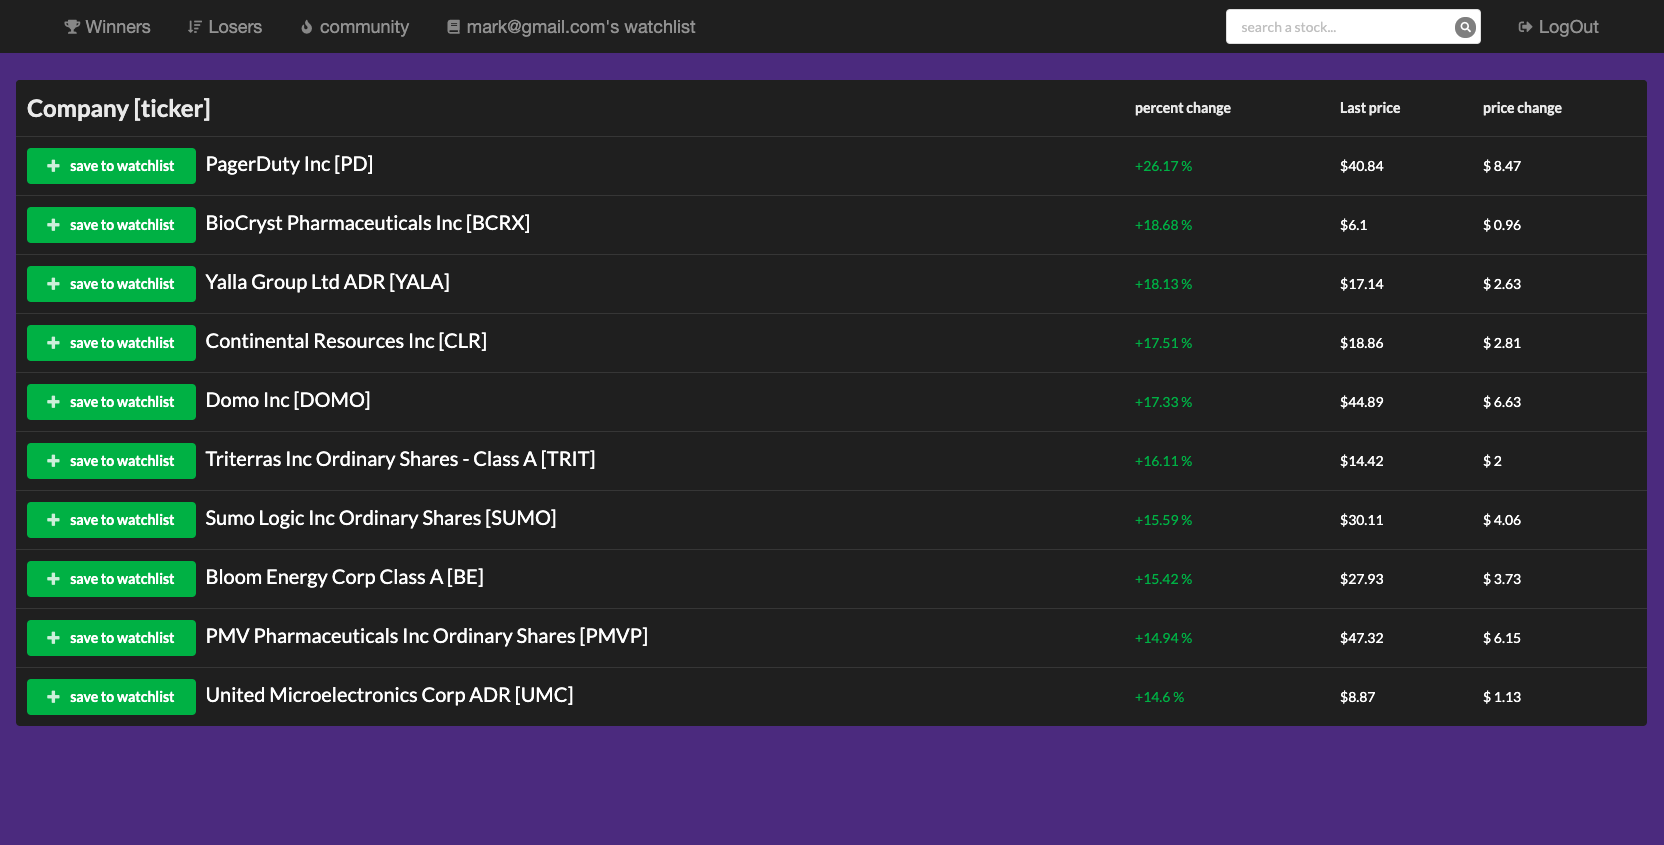
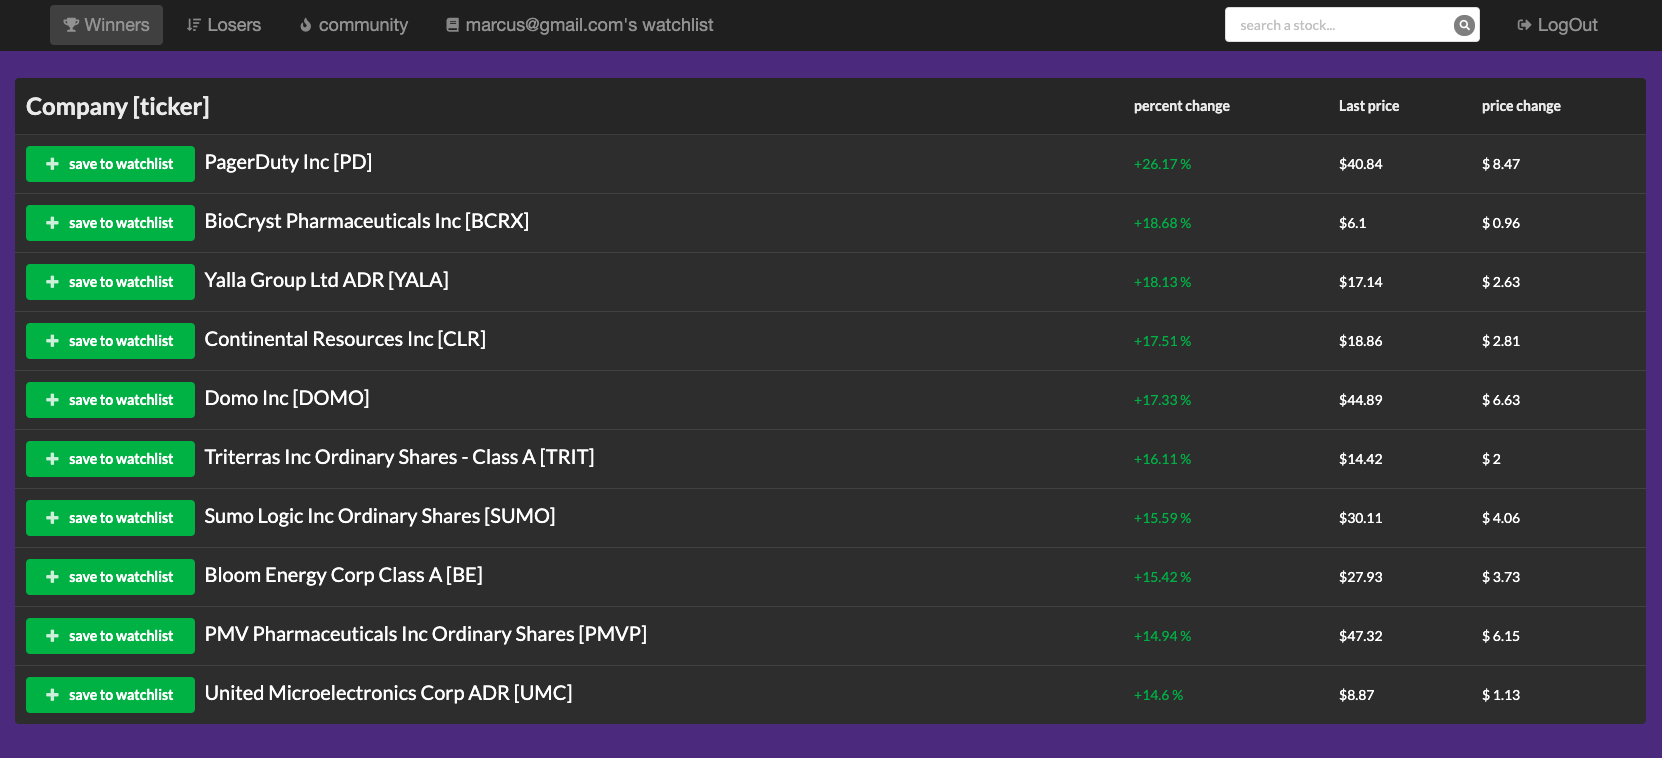
css touches

diff --git a/client/src/containers/apiListWinners/index.js b/client/src/containers/apiListWinners/index.js
@@ -80,16 +80,16 @@ class WinnerListItems extends Component {
 
          </Helmet>
      <div style={{margin:'80px 20px 0px 20px'}}>
-     <Table  inverted widths={4} style={{backgroundColor:'#222222',color:'white'}}    >
+     <Table inverted selectable  widths={4} style={{color:'white'}}    >
  
      <Table.Header>
        <Table.Row>
  
-       <Table.HeaderCell style={{backgroundColor:'#222222',color:'white'}}><h2 >Company [ticker]</h2></Table.HeaderCell>
-       <Table.HeaderCell style={{backgroundColor:'#222222',color:'white'}}>percent change</Table.HeaderCell>
+       <Table.HeaderCell style={{color:'white',backgroundcolor:'#2b2b2b'}}><h2 >Company [ticker]</h2></Table.HeaderCell>
+       <Table.HeaderCell style={{color:'white',backgroundcolor:'#2b2b2b'}}>percent change</Table.HeaderCell>
 
-        <Table.HeaderCell style={{backgroundColor:'#222222',color:'white'}} >Last price</Table.HeaderCell>
-       <Table.HeaderCell  style={{backgroundColor:'#222222',color:'white'}}>price change</Table.HeaderCell>
+        <Table.HeaderCell style={{color:'white',backgroundcolor:'#2b2b2b'}} >Last price</Table.HeaderCell>
+       <Table.HeaderCell  style={{color:'white',backgroundcolor:'#2b2b2b'}}>price change</Table.HeaderCell>
 
  
        </Table.Row>

diff --git a/client/src/containers/LoserListItems/index.js b/client/src/containers/LoserListItems/index.js
@@ -69,16 +69,16 @@ const LoserListItems = props => (
    <div style={{margin:'80px 20px 0px 20px'}}>
 
 
-    <Table inverted style={{backgroundColor:'#222222',color:'white'}}widths={4} >
+    <Table inverted selectable style={{color:'white'}}widths={4} >
     <Table.Header >
        <Table.Row  >
 
-       <Table.HeaderCell style={{backgroundColor:'#222222',color:'white'}} ><h2> Company [ticker]</h2></Table.HeaderCell>
+       <Table.HeaderCell style={{color:'white',backgroundcolor:'#2b2b2b'}} ><h2> Company [ticker]</h2></Table.HeaderCell>
 
-       <Table.HeaderCell style={{backgroundColor:'#222222',color:'white'}} >Last price</Table.HeaderCell>
-       <Table.HeaderCell style={{backgroundColor:'#222222',color:'white'}}>price change</Table.HeaderCell>
+       <Table.HeaderCell style={{color:'white',backgroundcolor:'#2b2b2b'}} >Last price</Table.HeaderCell>
+       <Table.HeaderCell style={{color:'white',backgroundcolor:'#2b2b2b'}}>price change</Table.HeaderCell>
 
-         <Table.HeaderCell style={{backgroundColor:'#222222',color:'white'}}>percent change</Table.HeaderCell>
+         <Table.HeaderCell style={{color:'white',backgroundcolor:'#2b2b2b'}}>percent change</Table.HeaderCell>
 
        </Table.Row>
      </Table.Header>

diff --git a/client/src/containers/Home/index.js b/client/src/containers/Home/index.js
@@ -90,7 +90,7 @@ color='purple'> <Icon name='search'></Icon><span className='buttn2'> Search Stoc
          View the top 10 stock Market daily winners and losers, and lookup any stock.
         </Header>
         <p style={{ fontSize: '1.33em',textAlign:'center' }}>
-             Open the winners or losers tab to check the daily stock market winners and losers. In the search-stock tab, you can search stocks by their ticker to find extra information and details about the company.
+             Open the winners or losers tab to check the daily stock market winners and losers. In the search bar, you can search stocks by their ticker to find extra information and details about the company.
            
         </p>
         </div>
@@ -120,7 +120,7 @@ color='purple'> <Icon name='search'></Icon><span className='buttn2'> Search Stoc
         <Grid>
          <Grid.Row >
          <Grid.Column width={9}>
-  <Image src={pic2}  />
+  <Image style={{borderRadius:'4px'}}src={pic2}  />
   </Grid.Column>
          <Grid.Column floated='right'width={6}>
 

diff --git a/client/src/containers/Trending/index.js b/client/src/containers/Trending/index.js
@@ -92,8 +92,8 @@ export default class Trending extends Component {
         size='mini'
         src='https://react.semantic-ui.com/images/avatar/large/steve.jpg'
       />
-      <Card.Header>
-        <h1 style={{textAlign:'center'}}> {item.email}</h1> 
+      <Card.Header >
+        <h1 style={{textAlign:'left'}}> {item.email}</h1> 
        </Card.Header>
     {/* <Card.Meta>{item.email} has {item.myStocks.length} stocks...</Card.Meta> */}
       
@@ -109,7 +109,7 @@ export default class Trending extends Component {
     <Table.Row>
        <Table.HeaderCell style={{color:'black'}}>Recent stocks</Table.HeaderCell>
  
-      <Table.HeaderCell style={{color:'black'}}>Date</Table.HeaderCell>
+      <Table.HeaderCell  style={{color:'black'}}>Date</Table.HeaderCell>
  
 
      

diff --git a/client/src/components/nav/Result/index.js b/client/src/components/nav/Result/index.js
@@ -125,7 +125,7 @@ color:'white',
 
 <Message  >
 <Message.Header>Cannot Find this stock</Message.Header>
-  <p>Please try again another time...</p>
+  <p>:/ this page is still in progress...</p>
 </Message> 
 }
              
